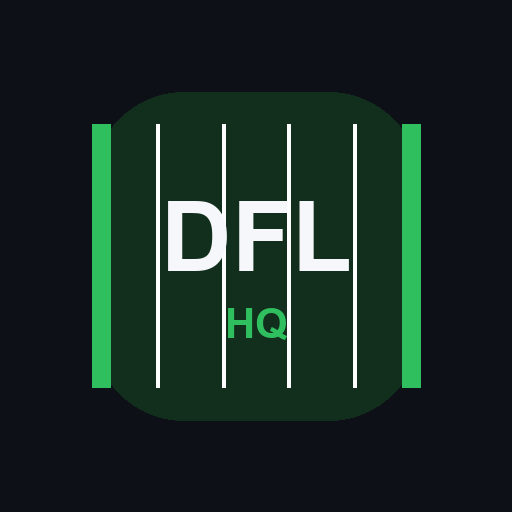
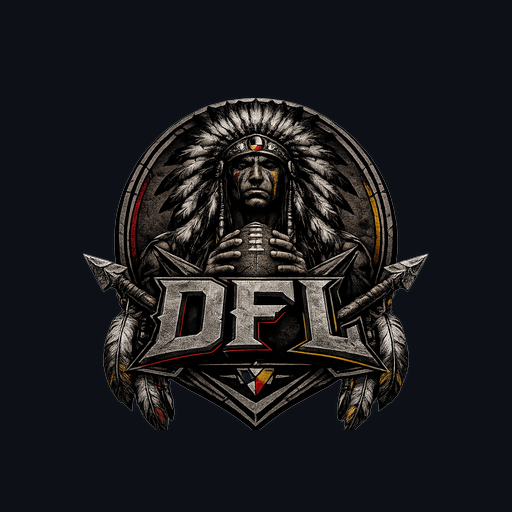
v1.1.1 — Use the DFL league crest for branding
Replaces the placeholder generated icons with the real league logo:
home screen icons (192/512/maskable/apple-touch), a 40px mark in the
header next to the wordmark, and the crest as a hero on the dashboard.

The artwork is trimmed out of its vignette and centred on the app's own
background so the icon matches the theme. The maskable version keeps the
badge inside the circular safe zone. Header and hero use small resized
copies (10 KB / 126 KB) rather than the 2 MB original.

diff --git a/css/style.css b/css/style.css
@@ -61,14 +61,8 @@ a { color: var(--accent); }
   align-items: center;
   justify-content: space-between;
 }
-.brand { display: flex; align-items: center; gap: 8px; font-weight: 800; letter-spacing: .5px; }
-.brand-mark {
-  background: var(--accent);
-  color: #06240f;
-  padding: 3px 8px;
-  border-radius: 8px;
-  font-size: 15px;
-}
+.brand { display: flex; align-items: center; gap: 9px; font-weight: 800; letter-spacing: .5px; }
+.brand-logo { width: 40px; height: 40px; display: block; flex: none; }
 .brand-text { font-size: 18px; }
 
 .whoami {
@@ -256,6 +250,17 @@ textarea { min-height: 96px; resize: vertical; }
 .bar { background: var(--bg-3); border-radius: 6px; height: 10px; overflow: hidden; }
 .bar > span { display: block; height: 100%; background: var(--accent); }
 .result.mine .result-top { font-weight: 700; color: #86e6a8; }
+
+/* ------------------------- home page crest --------------------------- */
+
+.hero { text-align: center; margin: 4px 0 10px; }
+.hero img {
+  width: 170px;
+  height: auto;
+  max-width: 55vw;
+  /* lifts the dark crest off the dark background */
+  filter: drop-shadow(0 6px 18px rgba(0, 0, 0, .55));
+}
 
 /* --------------------------- owner stat grid ------------------------- */
 

diff --git a/js/pages/home.js b/js/pages/home.js
@@ -30,8 +30,11 @@ export async function render(view) {
   const name = getUsername();
 
   view.innerHTML = `
-    <h1>League Headquarters</h1>
-    <p class="muted" style="margin-top:-8px">
+    <div class="hero">
+      <img src="icons/logo-256.png" alt="DFL league crest" width="256" height="256">
+    </div>
+    <h1 class="center">League Headquarters</h1>
+    <p class="muted center" style="margin-top:-8px">
       ${name ? `Good to see you, <strong>${esc(name)}</strong>.` : "Rules, polls, keepers and league history."}
       Sleeper still runs the scoring.
     </p>

diff --git a/sw.js b/sw.js
@@ -12,7 +12,7 @@
    APP_VERSION in js/config.js.
    ===================================================================== */
 
-const CACHE_NAME = "dfl-hq-v1.1.0";
+const CACHE_NAME = "dfl-hq-v1.1.1";
 
 const APP_SHELL = [
   "./",
@@ -39,6 +39,8 @@ const APP_SHELL = [
   "./js/pages/admin_sleeper.js",
   "./icons/icon-192.png",
   "./icons/icon-512.png",
+  "./icons/logo-64.png",
+  "./icons/logo-256.png",
 ];
 
 self.addEventListener("install", (event) => {

diff --git a/index.html b/index.html
@@ -100,8 +100,8 @@
 <header class="topbar">
   <div class="topbar-inner">
     <div class="brand">
-      <span class="brand-mark">DFL</span>
-      <span class="brand-text">HQ</span>
+      <img class="brand-logo" src="icons/logo-64.png" alt="" width="40" height="40">
+      <span class="brand-text">DFL HQ</span>
     </div>
     <button id="whoami" class="whoami" type="button" title="Change your league name">
       <span id="whoami-name">…</span>

diff --git a/js/config.js b/js/config.js
@@ -19,4 +19,4 @@ export const SUPABASE_ANON_KEY = "sb_publishable_I14JPQNBW-fhIwZ7WkBlAg_M9zolGNL
 export const LEAGUE_NAME = "DFL HQ";
 
 // Bump this when you change any file, so phones pick up the new version.
-export const APP_VERSION = "1.1.0";
+export const APP_VERSION = "1.1.1";
